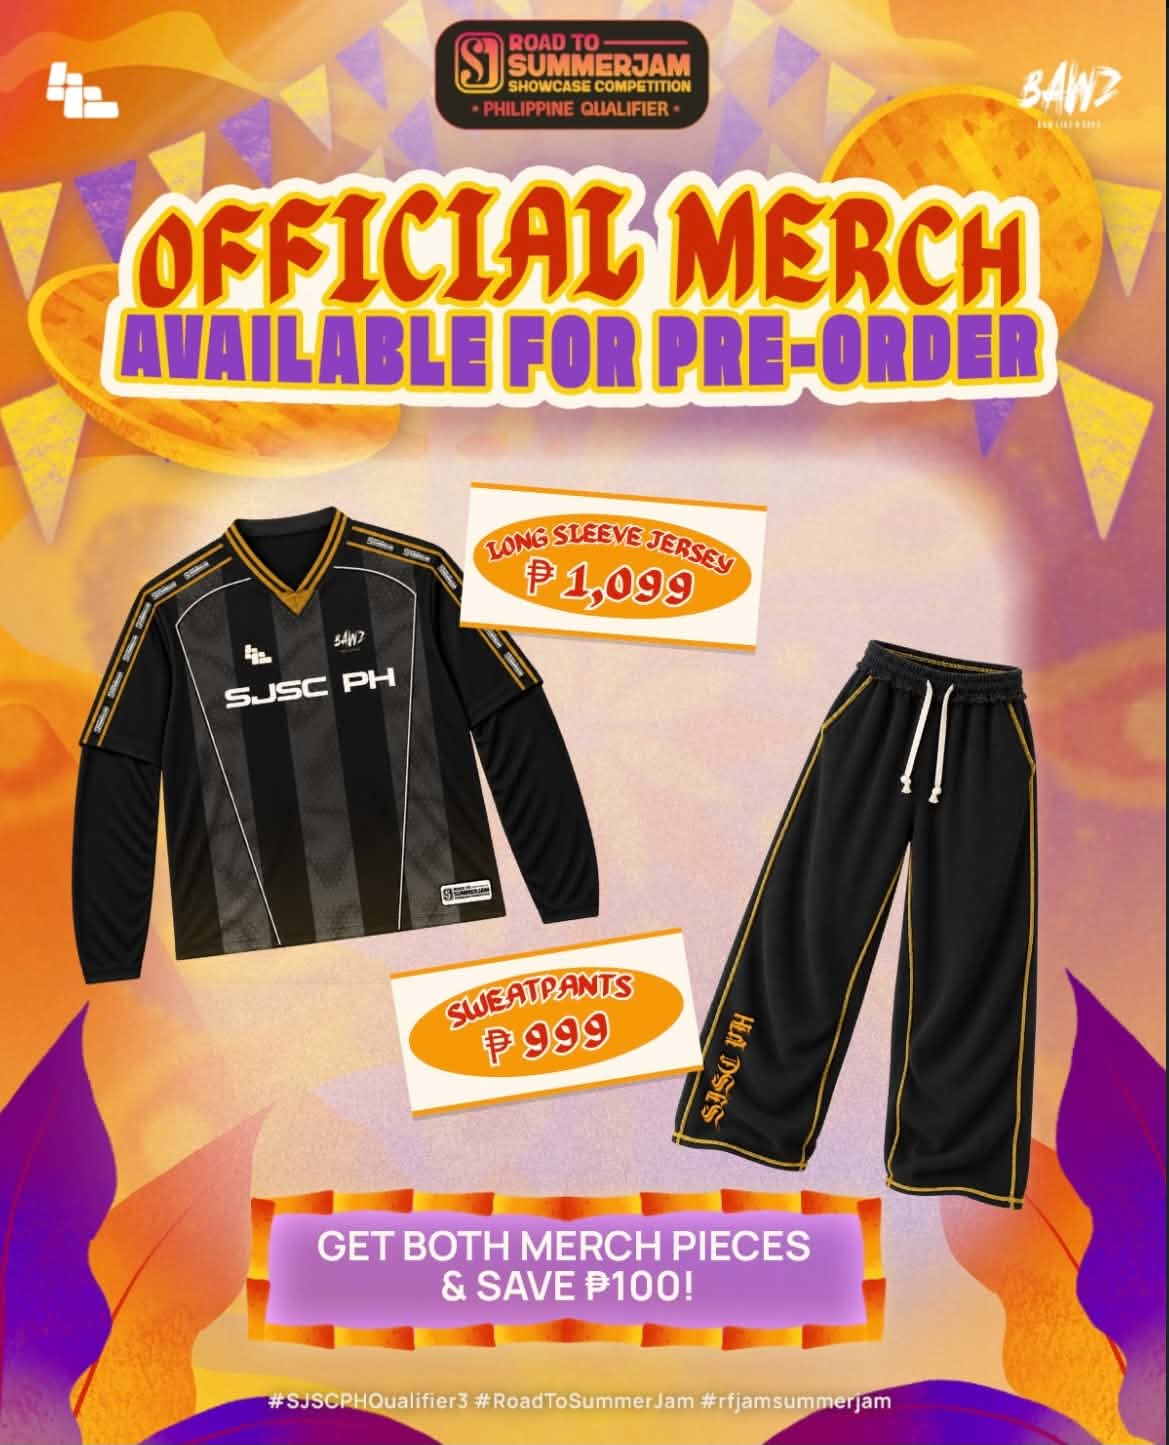
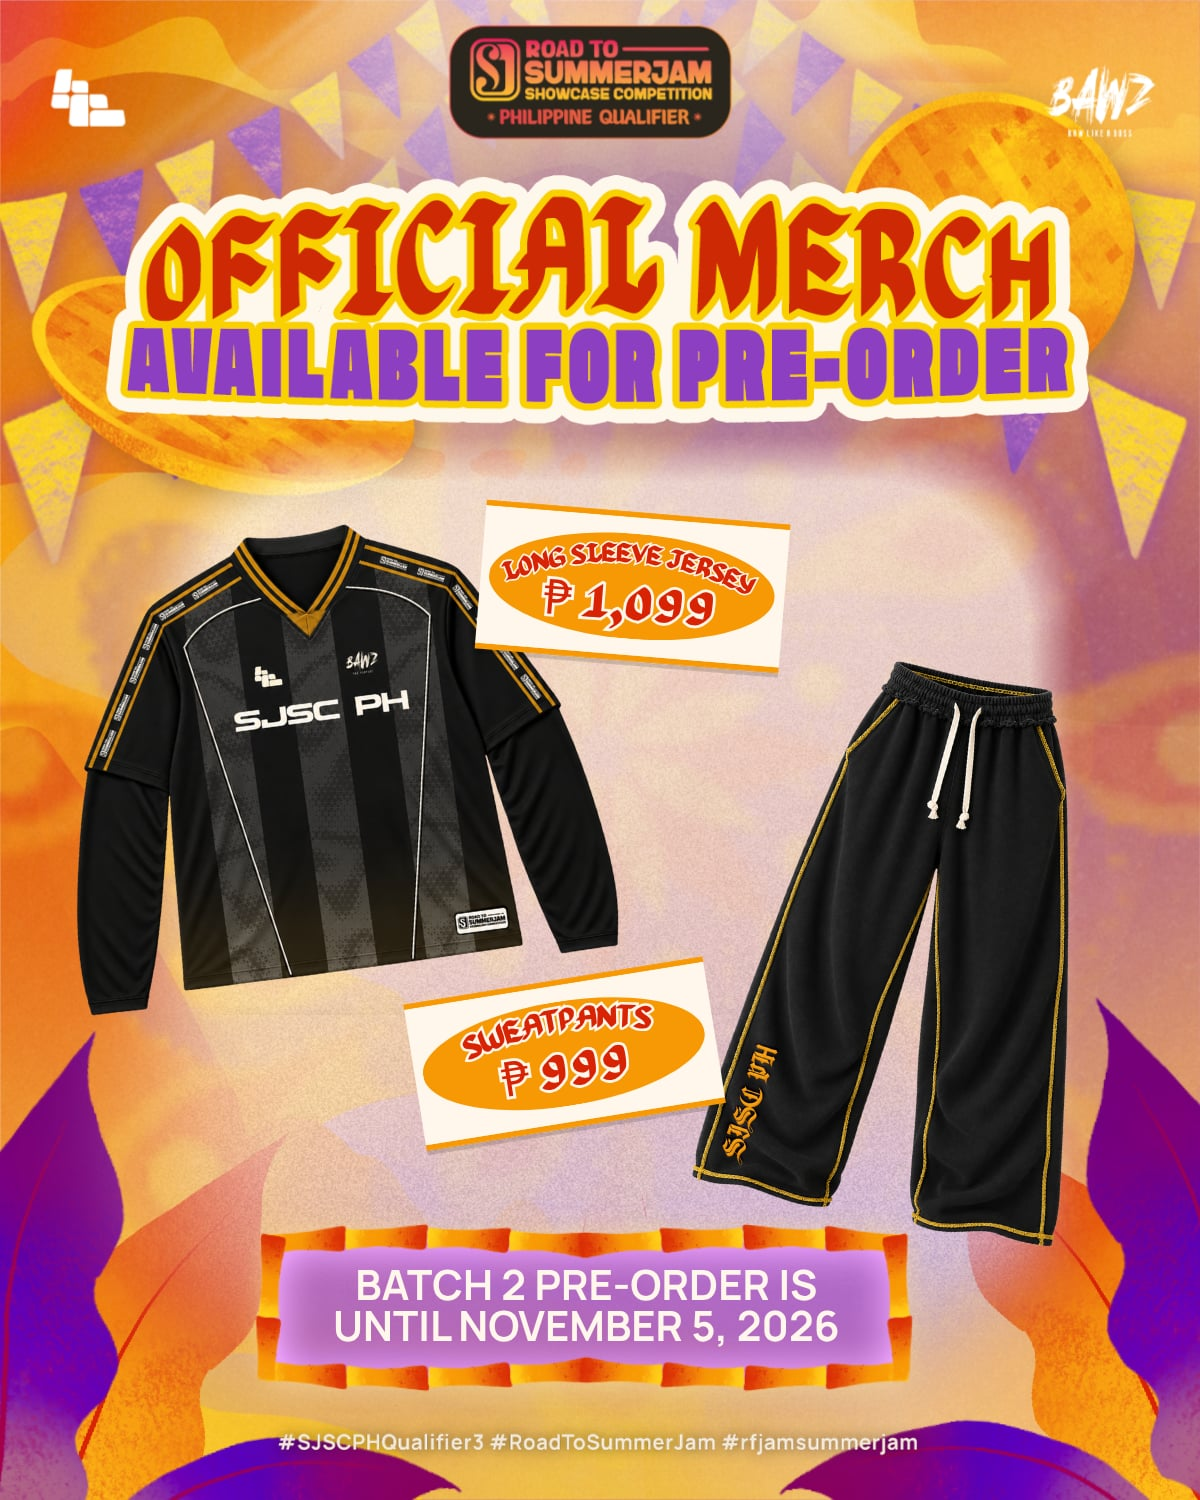
updated merch pubmat

diff --git a/index.html b/index.html
@@ -662,7 +662,7 @@
         </div>
 
         <p>
-          Get your hands on our official sweatpants and jersey, designed for performers, 
+          Get your hands on our official sweatpants and jersey. Designed for performers, 
           and supporters who want to carry the energy and identity of the community 
           wherever they go. Check the pre-order form for more details.
         </p>
